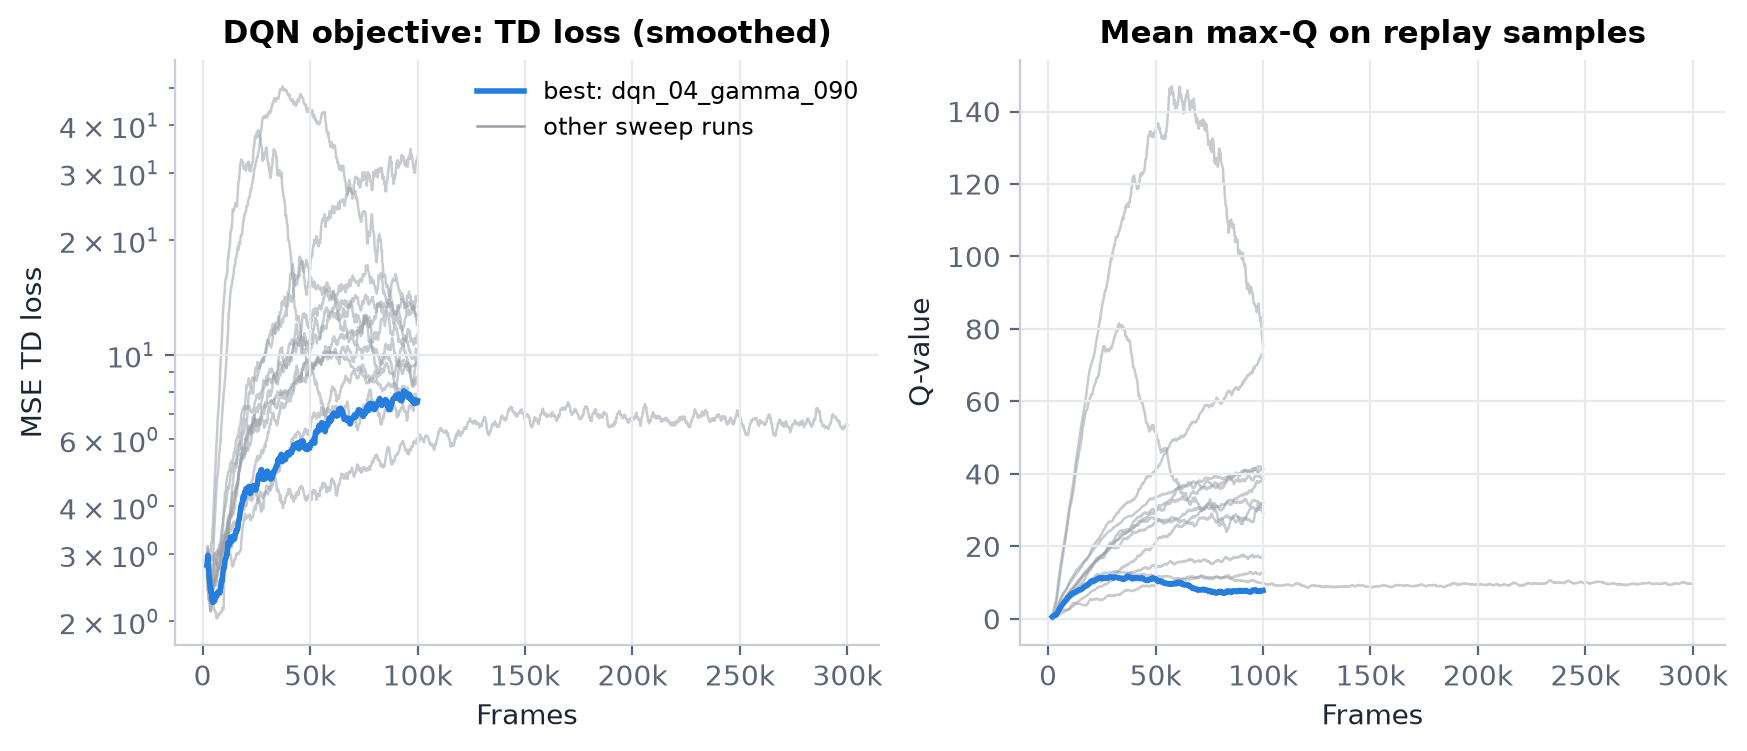
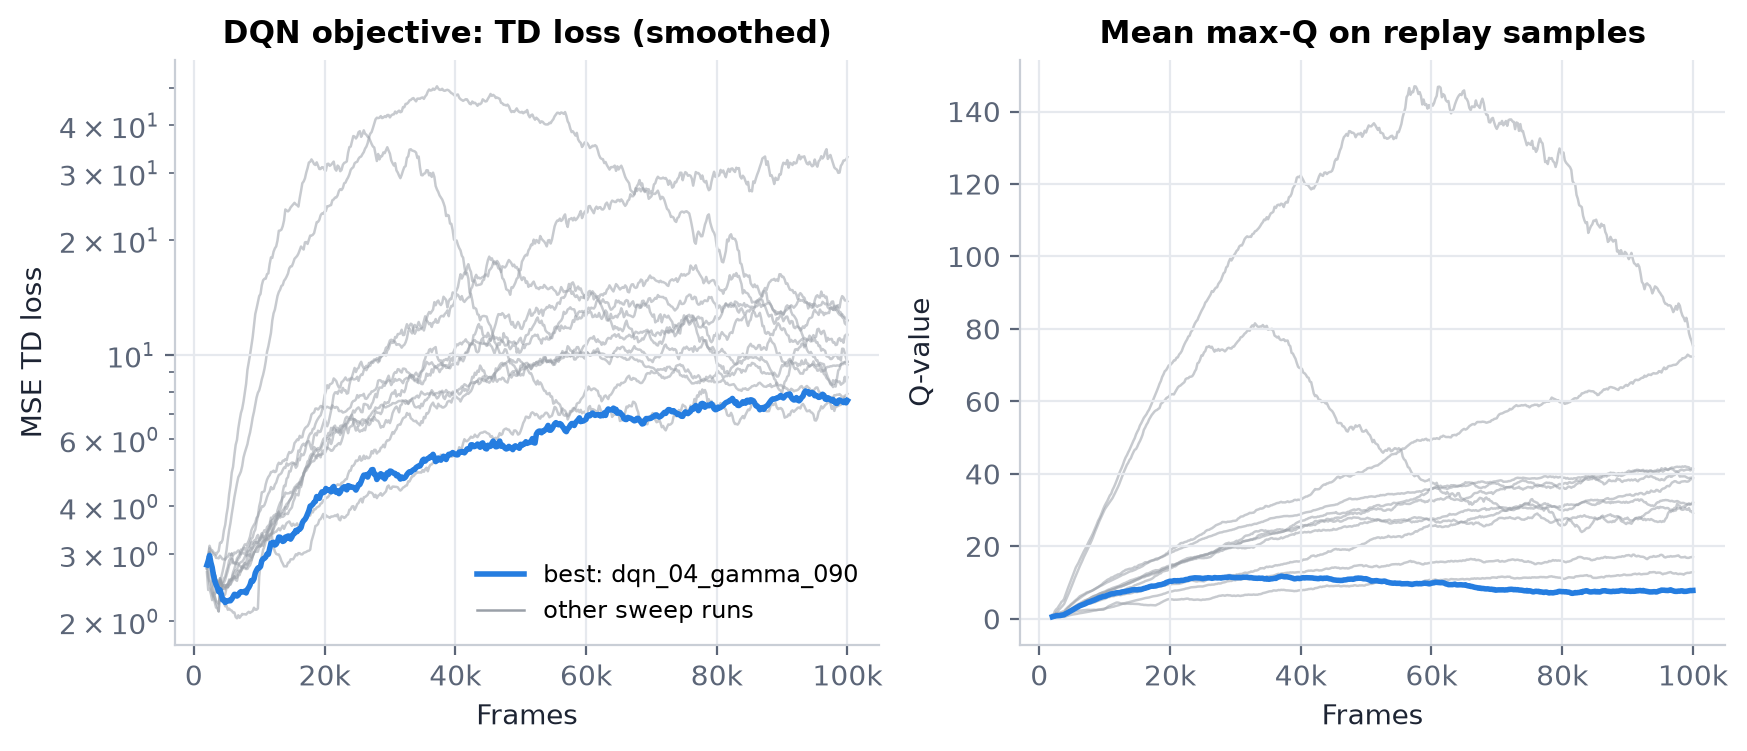
Extended training results, final figures, README results

diff --git a/training/analyze.py b/training/analyze.py
@@ -214,6 +214,8 @@ def main():
         summ, prog = data["dqn"]
         fig, axes = plt.subplots(1, 2, figsize=(10, 3.8))
         for rid, df in prog.items():
+            if rid.endswith("_long"):
+                continue
             is_best = rid == best["dqn"]
             kw = dict(color=COLORS["dqn"] if is_best else GREY, lw=2 if is_best else 0.9,
                       alpha=1 if is_best else 0.55, zorder=3 if is_best else 1,
@@ -234,6 +236,8 @@ def main():
         fig, axes = plt.subplots(1, len(pg), figsize=(4 * len(pg), 3.6), sharey=True, squeeze=False)
         for ax, a in zip(axes[0], pg):
             for rid, df in data[a][1].items():
+                if rid.endswith("_long"):
+                    continue
                 is_best = rid == best[a]
                 d = df.dropna(subset=["entropy"])
                 ax.plot(d["frames"], smooth(d["entropy"], 5), color=COLORS[a] if is_best else GREY,
@@ -250,12 +254,14 @@ def main():
             ax.set_visible(False)
             continue
         for rid, df in data[a][1].items():
+            if rid.endswith("_long"):
+                continue
             is_best = rid == best[a]
             d = df.dropna(subset=["train_return"])
             ax.plot(d["frames"], smooth(d["train_return"], 8), color=COLORS[a] if is_best else GREY,
                     lw=2 if is_best else 0.9, alpha=1 if is_best else 0.5, zorder=3 if is_best else 1)
         ax.axhline(base[("Heuristic", "final")][0], color=MUTED, ls="--", lw=1)
-        ax.set(title=f"{NAMES[a]}: training return, all {len(data[a][1])} runs", xlabel="Frames")
+        ax.set(title=f"{NAMES[a]}: training return, all {sum(not r.endswith('_long') for r in data[a][1])} runs", xlabel="Frames")
     axes[0][0].set_ylabel("Mean return (last 20 episodes)")
     axes[1][0].set_ylabel("Mean return (last 20 episodes)")
     fig.suptitle("Convergence and stability across the hyperparameter sweep (coloured = best run; dashed = heuristic)",
@@ -292,7 +298,7 @@ def main():
     # 6) hyperparameter sensitivity -----------------------------------------------------
     fig, ax = plt.subplots(figsize=(8, 3.6))
     for i, (a, (summ, _)) in enumerate(data.items()):
-        v = summ["final_return_mean"].values
+        v = summ.loc[~summ["run_id"].astype(str).str.endswith("_long"), "final_return_mean"].values
         jitter = np.random.default_rng(i).uniform(-0.12, 0.12, len(v))
         ax.scatter(np.full(len(v), i) + jitter, v, s=46, color=COLORS[a], edgecolor="white", linewidth=1.5, zorder=3)
     ax.axhline(base[("Heuristic", "final")][0], color=GREY, ls="--", lw=1.2, label="Heuristic")

diff --git a/README.md b/README.md
@@ -137,6 +137,23 @@ neglect arrives days later. Ranking women once and acting greedily ignores these
 sequential policy that weighs the value of each action now against its consequences later is exactly what RL optimises.
 A rule-based coordinator (`heuristic_policy`) is included as a baseline the agents must beat.
 
+## Results (30 held-out episodes with unseen initial states)
+
+| Policy | Held-out return | Unseen stress scenario | Precancers treated | Precancers lost / period |
+|---|---|---|---|---|
+| **PPO, 300k frames (best, used by `main.py`)** | **102.3 ± 30.3** | **86.4** | **81%** | **0.6** |
+| DQN, 300k frames | 90.3 ± 34.4 | 62.6 | 75% | 1.3 |
+| Rule-based coordinator (baseline) | 73.6 ± 37.0 | 53.4 | 71% | 1.6 |
+| DQN, best of 100k sweep (γ = 0.90) | 66.7 ± 43.9 | 50.2 | 68% | 1.7 |
+| PPO, best of 100k sweep (10 epochs) | 58.2 ± 33.9 | 45.7 | 69% | 1.5 |
+| A2C, 300k frames | 47.6 ± 39.6 | 26.1 | 62% | 1.9 |
+| REINFORCE, 300k frames | 15.1 ± 37.9 | 11.3 | 61% | 2.2 |
+| Random policy | −11.2 ± 17.4 | −30.5 | – | – |
+
+With equal 100k-frame budgets (45 sweep runs), DQN learned fastest. With 300k frames, PPO learned the best policy:
+it uses about 32 CHW home visits per period, against 4 for the rule-based coordinator, to keep at-risk women engaged, and loses 63% fewer precancers.
+All figures and per-run tables are in `assets/`.
+
 ---
 
 ## Visualisation and integration
